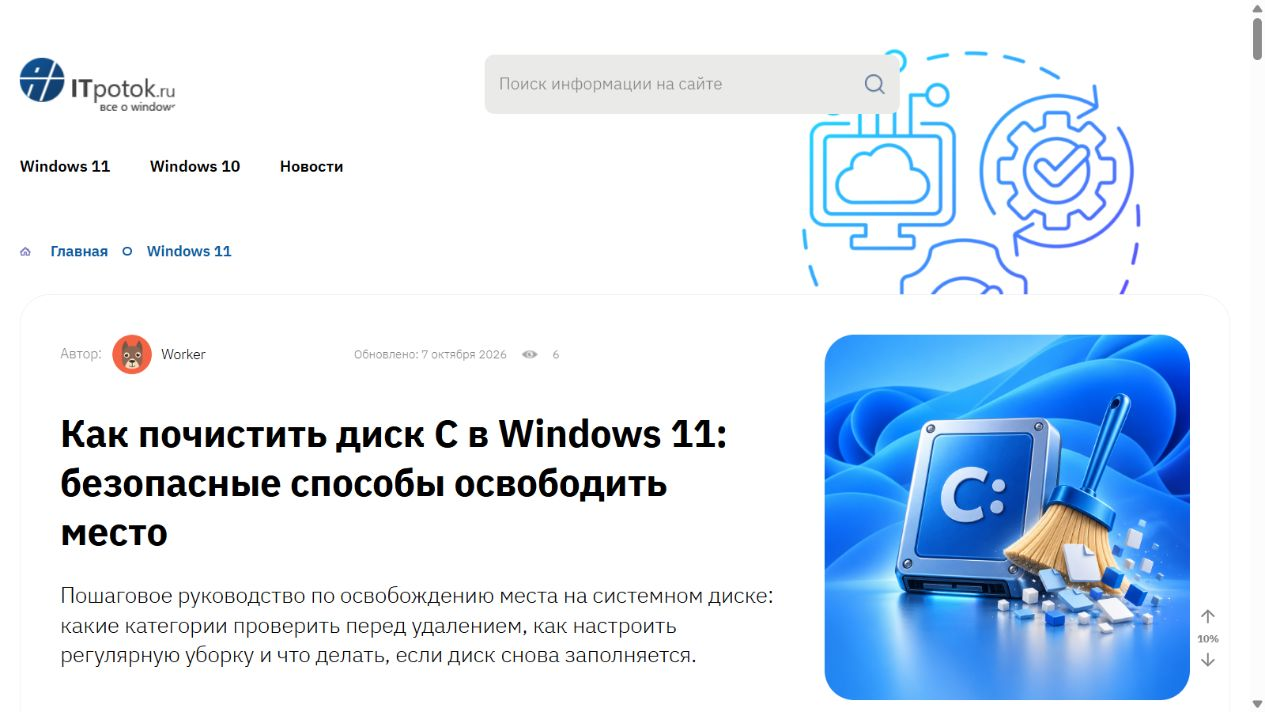
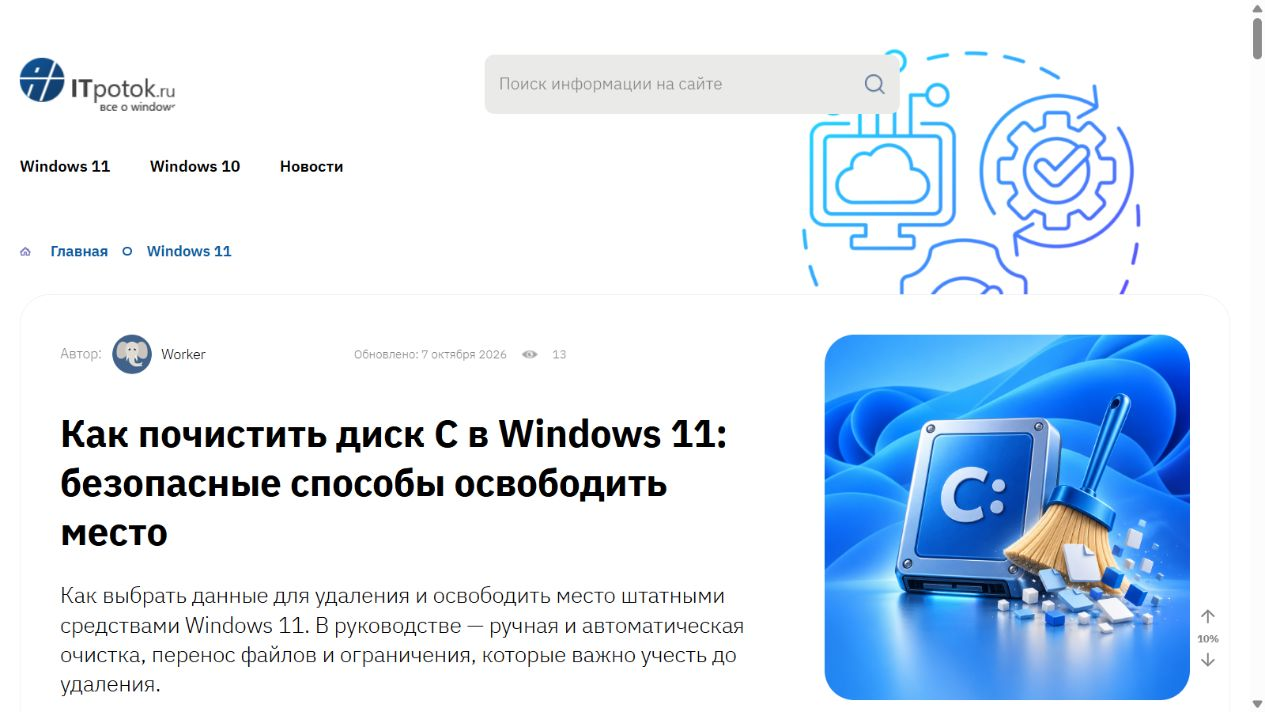
Rewrite disk cleanup guide with itpotok writing skill

Changed region(s): [[0.0308, 0.8034, 0.6166, 0.9888], [0.0925, 0.4635, 0.1233, 0.5253]]

diff --git a/clean-drive-c-windows-11/article.html b/clean-drive-c-windows-11/article.html
@@ -1,6 +1,6 @@
-<p>Чтобы почистить диск C в Windows 11, удалите ненужные временные файлы через «Параметры» → «Система» → «Память» или встроенную программу «Очистка диска». Если этого мало, проверьте крупные личные файлы и установленные приложения. Для регулярной уборки включите «Контроль памяти», предварительно настроив правила удаления. Ниже — порядок действий без сторонних чистильщиков и ручного удаления системных папок.</p>
+<p>Чтобы почистить диск C в Windows 11, начните с временных файлов: откройте «Параметры» → «Система» → «Память» или запустите встроенную «Очистку диска». Если свободного места всё ещё мало, удалите ненужные приложения либо перенесите крупные личные файлы на другой накопитель. Повторяющуюся уборку можно поручить «Контролю памяти», заранее выбрав, что ему разрешено удалять.</p>
 <h2>С чего начать, если на диске C мало места</h2>
-<p>Откройте «Проводник» → «Этот компьютер» и запишите, сколько свободно на C. Затем посмотрите категории в «Система» → «Память»: это поможет выбрать способ, который даст результат именно на вашем компьютере. В некоторых переводах Windows и справке Microsoft раздел называется «Хранилище».</p>
+<p>Откройте «Проводник» → «Этот компьютер» и запишите объём свободного места на C. После очистки сравните значения. Чтобы понять, с чего начать, откройте «Параметры» → «Система» → «Память» и посмотрите, какие категории занимают больше всего места. В некоторых переводах Windows и справке Microsoft этот раздел называется «Хранилище».</p>
 <div style="overflow-x:auto"><table><thead><tr><th>Что занимает место</th><th>Что выбрать</th><th>Что проверить заранее</th></tr></thead><tbody>
 <tr><td>Временные файлы и кэш</td><td>Очистка в Параметрах или cleanmgr</td><td>Описание каждой выбранной категории</td></tr>
 <tr><td>Остатки предыдущей установки</td><td>Удаление Windows.old штатным средством</td><td>Нужны ли откат и файлы старого профиля</td></tr>
@@ -9,78 +9,78 @@
 <tr><td>Локальные копии OneDrive</td><td>Команда «Освободить место»</td><td>Завершилась ли синхронизация; нужен ли доступ без интернета</td></tr>
 <tr><td>Мусор регулярно появляется снова</td><td>Контроль памяти и поиск причины роста</td><td>Правила корзины, загрузок и облачных файлов</td></tr>
 </tbody></table></div>
-<p>Не выбирайте всё подряд. Сначала сохраните важные файлы из «Загрузок» и корзины. Удаление через средства очистки не даёт обычной возможности восстановить их из корзины. Освободив достаточно места для своей задачи, остановитесь: удалять дополнительные данные ради максимальной цифры не требуется.</p>
+<p>Перед очисткой сохраните нужные файлы из «Загрузок» и корзины в другом месте. Средства очистки удаляют выбранные данные без обычной возможности вернуть их из корзины. Поэтому отмечайте только понятные вам категории и останавливайтесь, когда места достаточно для вашей задачи.</p>
 <h2>Удалить временные файлы через Параметры</h2>
 <ol>
 <li>Нажмите <strong>Win + I</strong>, откройте <strong>«Система» → «Память»</strong>.</li>
-<li>Выберите <strong>«Временные файлы»</strong> и дождитесь расчёта. Набор пунктов и объём зависят от компьютера.</li>
-<li>Прочитайте описания и отметьте только то, что больше не нужно. Кэш и эскизы обычно создаются заново по мере работы; диагностические данные могут понадобиться при разборе ошибки.</li>
-<li>Проверьте, не выбраны ли <strong>«Загрузки»</strong>, <strong>«Корзина»</strong> и <strong>«Предыдущие установки Windows»</strong>. Первые два пункта могут содержать ваши файлы; третий разбирается ниже.</li>
+<li>Выберите <strong>«Временные файлы»</strong> и дождитесь, пока Windows рассчитает их объём. На разных компьютерах список категорий будет отличаться.</li>
+<li>Прочитайте описания категорий и отметьте ненужные данные. Кэш и эскизы обычно создаются заново, а диагностические файлы стоит оставить, если вы разбираетесь с ошибкой.</li>
+<li>Проверьте флажки у <strong>«Загрузок»</strong> и <strong>«Корзины»</strong>: там могут находиться ваши документы. Если есть пункт <strong>«Предыдущие установки Windows»</strong>, не выбирайте его, пока не решите, нужен ли возврат к прежней версии. Удаление Windows.old разобрано ниже.</li>
 <li>Нажмите <strong>«Удалить файлы»</strong> и дождитесь завершения. Если Windows попросит перезагрузку, сначала сохраните открытые документы.</li>
 </ol>
-<p>Другой путь в этом же разделе — <strong>«Рекомендации по очистке»</strong>. Просмотрите предложенные временные файлы, крупные или неиспользуемые файлы и приложения. Сам факт попадания в рекомендации не означает, что файл вам не нужен. Отметьте подходящие элементы и используйте кнопку очистки соответствующей группы.</p>
+<p>В разделе «Память» также есть <strong>«Рекомендации по очистке»</strong>. Здесь Windows предлагает временные файлы, крупные или неиспользуемые файлы и приложения. Просмотрите предложения, отметьте то, что действительно не нужно, и нажмите кнопку очистки соответствующей группы. Рекомендация Windows сама по себе не означает, что файл можно удалить.</p>
 <p>Обновите сведения о C в «Этот компьютер» и сравните со значением до уборки. Показанная оценка удаления может отличаться от фактической прибавки: система продолжает записывать данные. Порядок штатной очистки описан в <a href="https://support.microsoft.com/ru-ru/windows/experience/storage-filemanagement/free-up-drive-space-in-windows" rel="nofollow">справке Microsoft об освобождении места</a>.</p>
 <h2>Запустить классическую «Очистку диска»</h2>
-<p>Этот способ удобен, если вы предпочитаете отдельное окно со списком категорий. Утилита <strong>cleanmgr</strong> применяется и в Windows 11; отдельную программу скачивать не нужно.</p>
+<p>Если удобнее работать в отдельном окне, используйте <strong>«Очистку диска»</strong>. Программа уже входит в Windows 11 и запускается командой <code>cleanmgr</code>.</p>
 <ol>
 <li>Откройте поиск на панели задач, введите <strong>«Очистка диска»</strong> и запустите найденное приложение. Другой вариант: <strong>Win + R</strong> → <code>cleanmgr</code> → Enter.</li>
 <li>Если появится выбор устройства, укажите <strong>C:</strong> и нажмите «ОК». Дождитесь анализа.</li>
-<li>Выделяйте категории, чтобы читать описание внизу окна. Установите флажки у ненужных данных.</li>
+<li>Нажимайте на названия категорий и читайте описание внизу окна. Отметьте флажками только ненужные данные.</li>
 <li>Для дополнительных категорий нажмите <strong>«Очистить системные файлы»</strong>. При запросе подтвердите права администратора, снова выберите C и дождитесь расчёта.</li>
-<li>Повторно проверьте флажки, нажмите «ОК» и подтвердите удаление. Не путайте эту кнопку с начальным «ОК» в окне выбора диска.</li>
+<li>После повторного анализа проверьте флажки: среди дополнительных категорий могут быть данные предыдущей установки Windows. Если готовы их удалить, нажмите «ОК» и подтвердите удаление файлов.</li>
 </ol>
-<figure><a href="https://itpotok.ru/wp-content/uploads/2026/10/disk-cleanup-ru-20261007.jpg"><img src="https://itpotok.ru/wp-content/uploads/2026/10/disk-cleanup-ru-20261007.jpg" alt="Русское окно Очистка диска C: список категорий, описание и кнопка Очистить системные файлы" width="397" height="459" style="max-width:100%;height:auto" loading="lazy"></a><figcaption>Собственный снимок окна Microsoft Windows 11: категории и кнопка «Очистить системные файлы». 3,51 ГБ — оценка на конкретном ПК, а не обещание результата. Удаление не запускалось. Used with permission from Microsoft. Нажмите на изображение для увеличения.</figcaption></figure>
+<figure><a href="https://itpotok.ru/wp-content/uploads/2026/10/disk-cleanup-ru-20261007.jpg"><img src="https://itpotok.ru/wp-content/uploads/2026/10/disk-cleanup-ru-20261007.jpg" alt="Русское окно Очистка диска C: список категорий, описание и кнопка Очистить системные файлы" width="397" height="459" style="max-width:100%;height:auto" loading="lazy"></a><figcaption>Окно «Очистка диска» в Windows 11: описание выбранной категории и кнопка «Очистить системные файлы». Показанные 3,51 ГБ — оценка перед удалением на одном компьютере. Собственный снимок; Used with permission from Microsoft. Нажмите для увеличения.</figcaption></figure>
 <p><strong>«Загруженные файлы программ» — не папка «Загрузки».</strong> В показанном окне это отдельная категория старых интернет-компонентов. Всегда ориентируйтесь на её описание. Поддержку утилиты и её параметры подтверждает <a href="https://learn.microsoft.com/en-us/windows-server/administration/windows-commands/cleanmgr" rel="nofollow">документация Microsoft Learn</a>.</p>
-<p>После завершения снова проверьте свободное место на C. Если передумали до подтверждения удаления, нажмите «Отмена». После очистки общей кнопки возврата нет.</p>
+<p>До подтверждения удаления можно выйти кнопкой «Отмена». После очистки вернуть удалённые данные общей кнопкой отмены нельзя. Дождитесь завершения и проверьте свободное место на C.</p>
 <h2>Настроить автоматическую уборку — «Контроль памяти»</h2>
-<p>Контроль памяти работает на системном диске, обычно C. При стандартной настройке он помогает убирать временные файлы при нехватке места; для корзины действует срок хранения. «Загрузки» и облачные файлы не затрагиваются, пока вы не зададите соответствующие правила.</p>
+<p>«Контроль памяти» нужен, если временные файлы приходится убирать регулярно. Он работает на системном диске, обычно C. При стандартной настройке очистка временных файлов запускается при нехватке места, а содержимое корзины удаляется по сроку хранения. Для «Загрузок» и облачных файлов действуют отдельные правила: они не затрагиваются, пока вы их не настроите.</p>
 <ol>
 <li>Откройте <strong>«Параметры» → «Система» → «Память» → «Контроль памяти»</strong>.</li>
 <li>Включите функцию и выберите частоту запуска: при нехватке места или по расписанию.</li>
-<li>Установите срок удаления файлов из корзины. Если рассчитываете восстанавливать недавно удалённые документы, не задавайте слишком короткий срок.</li>
+<li>Выберите срок хранения файлов в корзине. Оставьте достаточно времени, чтобы успеть восстановить документ, удалённый по ошибке.</li>
 <li>Для <strong>«Загрузок»</strong> оставьте <strong>«Никогда»</strong>, если не готовы к автоматическому удалению. Это папка личных файлов, а не только временный кэш.</li>
 <li>Если присутствуют настройки облачного содержимого, прочитайте их отдельно: перевод файла в состояние «только в сети» влияет на доступ без интернета.</li>
 <li>Для немедленной уборки используйте <strong>«Запустить Контроль памяти сейчас»</strong> после проверки правил.</li>
 </ol>
-<p>Убедитесь, что выбранные правила сохранились, а после запуска проверьте свободное место. Для отмены будущей автоматической уборки выключите функцию или измените сроки; уже удалённые файлы это не вернёт. Подробности — в <a href="https://support.microsoft.com/ru-ru/windows/experience/storage-filemanagement/manage-drive-space-with-storage-sense" rel="nofollow">официальном описании контроля памяти</a>.</p>
+<p>Убедитесь, что выбранные правила сохранились. После ручного запуска сравните свободное место на C. Остановить будущую автоматическую уборку можно, выключив функцию или изменив сроки; уже удалённые файлы при этом не восстановятся. Условия работы описаны в <a href="https://support.microsoft.com/ru-ru/windows/experience/storage-filemanagement/manage-drive-space-with-storage-sense" rel="nofollow">справке Microsoft о контроле памяти</a>.</p>
 <h2>Удалить Windows.old после обновления</h2>
-<p>Папка <code>C:\Windows.old</code> может содержать предыдущую установку Windows. Не удаляйте её, если собираетесь вернуться к прежней версии или ещё не проверили нужные файлы старого профиля.</p>
+<p>После обновления в <code>C:\Windows.old</code> может остаться предыдущая установка Windows. Её удаление освобождает место, но лишает возможности штатного возврата к прежней версии. Если откат ещё нужен или вы не проверили файлы старого профиля, оставьте папку.</p>
 <ol>
-<li>Убедитесь, что новая система, приложения и устройства работают, а нужные документы сохранены отдельно.</li>
+<li>Проверьте работу новой системы, приложений и устройств. Сохраните нужные документы из старого профиля в другом месте.</li>
 <li>Откройте «Система» → «Память» → «Временные файлы» либо «Рекомендации по очистке».</li>
 <li>Выберите <strong>«Предыдущие установки Windows»</strong>, если пункт есть, и запустите штатное удаление. Для него нужны права администратора.</li>
 </ol>
-<p>Проверка — обновить свободное место на C после завершения. <strong>Отменить удаление предыдущей установки нельзя:</strong> возможность штатного возврата к ней будет потеряна. По справке Microsoft предыдущая версия обычно удаляется автоматически через десять дней после обновления. Отсутствие пункта само по себе не говорит об ошибке: подходящих данных может не быть.</p>
-<p>Источники: <a href="https://support.microsoft.com/ru-ru/windows/deployment/install-upgrade/delete-your-previous-version-of-windows" rel="nofollow">удаление предыдущей версии</a> и <a href="https://support.microsoft.com/ru-ru/servicing/os/windows/2022/02/kb5012334-delete-the-windows-old-folder-using-storage-sense-in-the-settings-app" rel="nofollow">инструкция Microsoft для Windows.old</a>.</p>
+<p>После завершения обновите сведения о свободном месте на C. <strong>Отменить удаление предыдущей установки нельзя.</strong> Если соответствующего пункта нет, подходящие данные могли уже исчезнуть: по справке Microsoft предыдущая версия обычно удаляется автоматически через десять дней после обновления.</p>
+<p>Подробнее: <a href="https://support.microsoft.com/ru-ru/windows/deployment/install-upgrade/delete-your-previous-version-of-windows" rel="nofollow">удаление предыдущей версии</a> и <a href="https://support.microsoft.com/ru-ru/servicing/os/windows/2022/02/kb5012334-delete-the-windows-old-folder-using-storage-sense-in-the-settings-app" rel="nofollow">инструкция Microsoft для Windows.old</a>.</p>
 <h2>Освободить больше места: приложения, крупные файлы и OneDrive</h2>
 <h3>Удалить ненужные программы и игры</h3>
-<p>Откройте <strong>«Параметры» → «Приложения» → «Установленные приложения»</strong>. Используйте сортировку по размеру, если она доступна, и фильтр диска C. Размер в списке не всегда отражает все данные программы, поэтому проверяйте и её собственные настройки хранения.</p>
-<p>Сохраните проекты, настройки, игровые сохранения и сведения о лицензии. У нужного приложения откройте меню «…» → <strong>«Удалить»</strong> и пройдите мастер. Если оно не удаляется здесь, проверьте «Панель управления» → «Программы и компоненты». Не стирайте его папку из Program Files вручную.</p>
+<p>Откройте <strong>«Параметры» → «Приложения» → «Установленные приложения»</strong>. Выберите фильтр диска C и сортировку по размеру, если она доступна. Так проще найти крупные игры и программы. Указанный размер может не учитывать все данные приложения; расположение и объём этих данных проверьте в его настройках.</p>
+<p>Перед удалением сохраните проекты, настройки, игровые сохранения и сведения о лицензии. Затем откройте меню «…» у ненужного приложения, выберите <strong>«Удалить»</strong> и следуйте указаниям мастера. Если удалить программу здесь не получается, проверьте «Панель управления» → «Программы и компоненты». Не стирайте её папку из <code>Program Files</code> вручную.</p>
 <p>После удаления проверьте место на C. Вернуть приложение можно установкой из прежнего доверенного источника, но пользовательские данные восстановятся только при наличии копии или синхронизации. См. <a href="https://support.microsoft.com/ru-ru/windows/удаление-или-удаление-приложений-и-программ-в-windows-4b55f974-2cc6-2d2b-d092-5905080eaf98" rel="nofollow">справку Microsoft об удалении приложений</a>.</p>
 <h3>Перенести личные файлы на другой диск</h3>
-<p>В первую очередь просмотрите «Загрузки», «Видео», «Документы» и рабочий стол: там могут оставаться ISO, архивы и большие записи экрана. В режиме «Таблица» сортируйте файлы по столбцу «Размер». Папки этим способом не обязательно сортируются по суммарному объёму — проверяйте их содержимое отдельно.</p>
-<p>Для важных данных сначала <strong>скопируйте</strong> выбранные файлы на другой диск или внешний накопитель, откройте несколько копий и убедитесь, что они читаются. Только затем удаляйте оригиналы с C. Пока они остаются в корзине на этом диске, место полностью не освободится. Проверьте корзину перед её очисткой.</p>
-<p>Перенос в другую папку на C не освобождает место на C. Для возврата скопируйте данные обратно, если хватает пространства. Переносить установленную программу как обычную папку нельзя: используйте функцию переноса её установщика или переустановку.</p>
+<p>Просмотрите «Загрузки», «Видео», «Документы» и рабочий стол: место могут занимать установочные образы ISO, архивы и записи экрана. В Проводнике включите режим «Таблица» и нажмите на столбец «Размер», чтобы найти крупные файлы. Для папок такая сортировка не обязательно учитывает объём содержимого — откройте их и проверьте файлы отдельно.</p>
+<p>Важные файлы сначала <strong>скопируйте</strong> на другой диск или внешний накопитель. Откройте несколько копий и убедитесь, что они читаются. После проверки удалите оригиналы с C. Если они попали в корзину на этом диске, для полного освобождения места потребуется очистить и её — предварительно проверьте содержимое.</p>
+<p>После удаления оригиналов проверьте свободное место на C. Перемещение в другую папку того же диска его не увеличит. При необходимости файлы можно скопировать обратно, если хватает места. Установленные программы таким способом не переносите: для них нужна функция переноса в установщике или переустановка.</p>
 <h3>Оставить файлы OneDrive в облаке</h3>
 <p>Если папка OneDrive расположена на C и файлы уже синхронизированы, нажмите на ненужный локально файл или папку правой кнопкой → <strong>«Освободить место»</strong>. При включённой функции «Файлы по запросу» облачный оригинал остаётся, а локальная копия освобождает диск.</p>
-<p>Проверьте значок облака и наличие файла в OneDrive. Для открытия понадобится интернет, и файл снова скачается. Для отмены выберите <strong>«Всегда хранить на этом устройстве»</strong> и дождитесь загрузки. Обычное «Удалить» в синхронизируемой папке — другая операция: она затрагивает и облачный файл. См. <a href="https://support.microsoft.com/ru-ru/onedrive/save-disk-space-with-onedrive-files-on-demand-for-windows" rel="nofollow">файлы OneDrive по запросу</a> и <a href="https://support.microsoft.com/ru-RU/onedrive/delete-files-or-folders-in-onedrive" rel="nofollow">правила удаления в OneDrive</a>.</p>
+<p>После освобождения места проверьте значок облака рядом с файлом и его наличие в OneDrive. Для открытия потребуется интернет: файл снова загрузится на компьютер. Если нужен постоянный доступ без сети, выберите <strong>«Всегда хранить на этом устройстве»</strong> и дождитесь загрузки. <strong>Не заменяйте «Освободить место» обычным «Удалить»:</strong> удаление в синхронизируемой папке затрагивает и облачный файл. Подробнее об этих действиях: <a href="https://support.microsoft.com/ru-ru/onedrive/save-disk-space-with-onedrive-files-on-demand-for-windows" rel="nofollow">файлы OneDrive по запросу</a> и <a href="https://support.microsoft.com/ru-RU/onedrive/delete-files-or-folders-in-onedrive" rel="nofollow">правила удаления в OneDrive</a>.</p>
 <h2>Нужно ли удалять hiberfil.sys, pagefile.sys и WinSxS</h2>
 <p>Это системные данные. <strong>Не удаляйте вручную Windows, WinSxS, Installer, Program Files и весь AppData.</strong> В них находятся компоненты системы, установленные приложения и пользовательские настройки.</p>
-<p>Для хранилища компонентов Microsoft предусматривает штатную очистку, включая DISM. Удаление WinSxS вручную может нарушить загрузку и обновления. Агрессивную команду с <code>/ResetBase</code> не стоит использовать как обычную уборку: она ограничивает удаление установленных обновлений. Для базового руководства достаточно средств выше. Источник — <a href="https://learn.microsoft.com/windows-hardware/manufacture/desktop/clean-up-the-winsxs-folder" rel="nofollow">очистка WinSxS в Microsoft Learn</a>.</p>
-<p>Файл <code>hiberfil.sys</code> связан с гибернацией; он используется также механизмами быстрого запуска. Если гибернация вам нужна, оставьте его. Если готовы отказаться от неё, откройте поиск → «Терминал» → «Запуск от имени администратора» и выполните:</p>
+<p>Папка <code>WinSxS</code> содержит хранилище компонентов Windows. Её ручное удаление может нарушить загрузку и обновления. Microsoft предусматривает штатную очистку, в том числе через DISM, но команду с <code>/ResetBase</code> не стоит применять для обычной уборки: она ограничивает удаление установленных обновлений. Начните со средств очистки, описанных выше. Дополнительные возможности и ограничения приведены в <a href="https://learn.microsoft.com/windows-hardware/manufacture/desktop/clean-up-the-winsxs-folder" rel="nofollow">справке Microsoft Learn об очистке WinSxS</a>.</p>
+<p>Файл <code>hiberfil.sys</code> связан с гибернацией; он используется также механизмами быстрого запуска. Отключение гибернации затронет также быстрый запуск и гибридный сон. Если эти возможности вам нужны, оставьте файл. Если готовы отказаться от них, откройте поиск → «Терминал» → «Запуск от имени администратора» и выполните:</p>
 <pre><code>powercfg /hibernate off</code></pre>
-<p>После успешного выполнения гибернация станет недоступна, её файл освободит место; быстрый запуск и гибридный сон также зависят от этого механизма. Это отдельное изменение режима питания, не удаление мусора. Для возврата выполните:</p>
+<p>После успешного выполнения команды гибернация станет недоступна, а её файл освободит место. Чтобы снова включить гибернацию, выполните в терминале с правами администратора:</p>
 <pre><code>powercfg /hibernate on</code></pre>
-<p>Затем проверьте настройки электропитания: нужные режимы могут потребовать отдельного включения. Возвращённый файл снова займёт место. Размер зависит от конфигурации — универсальную прибавку в гигабайтах обещать нельзя. Источники: <a href="https://learn.microsoft.com/en-us/troubleshoot/windows-client/setup-upgrade-and-drivers/disable-and-re-enable-hibernation" rel="nofollow">отключение и включение гибернации</a>, <a href="https://learn.microsoft.com/en-us/windows/win32/power/system-power-states" rel="nofollow">режимы питания</a>.</p>
+<p>После обратного включения проверьте настройки электропитания: нужные режимы могут потребовать отдельной настройки. Файл гибернации снова займёт место; его размер зависит от конфигурации компьютера. Справки Microsoft: <a href="https://learn.microsoft.com/en-us/troubleshoot/windows-client/setup-upgrade-and-drivers/disable-and-re-enable-hibernation" rel="nofollow">отключение и включение гибернации</a>, <a href="https://learn.microsoft.com/en-us/windows/win32/power/system-power-states" rel="nofollow">режимы питания</a>.</p>
 <p><code>pagefile.sys</code> — файл подкачки. Его отключение ради свободного места может мешать приложениям при нехватке памяти. Не меняйте его наугад: для этой задачи оставьте системное управление. Назначение файла объясняет <a href="https://learn.microsoft.com/da-dk/troubleshoot/windows-client/performance/introduction-to-the-page-file" rel="nofollow">Microsoft Learn</a>.</p>
 <h2>Что делать, если место не освободилось или снова исчезает</h2>
 <ul>
 <li><strong>Удалилось меньше, чем ожидалось.</strong> Проверьте именно C и обновите сведения в Проводнике. Не складывайте оценки разных средств очистки: они могут находить одни и те же данные.</li>
-<li><strong>Временные файлы снова появляются.</strong> Небольшой кэш создаётся при обычной работе. Посмотрите, какая категория растёт, и проверьте загрузки браузера, обновления, записи экрана и данные приложений.</li>
+<li><strong>Временные файлы снова появляются.</strong> Кэш создаётся заново при обычной работе. Если место убывает быстро, посмотрите в разделе «Память», какая категория растёт. Проверьте загрузки браузера, обновления, записи экрана и данные приложений.</li>
 <li><strong>Список долго рассчитывается или очистка не завершается.</strong> Дождитесь окончания активных обновлений, затем перезагрузите ПК и повторите анализ. Не прерывайте обслуживание удалением системных файлов.</li>
 <li><strong>Папка Temp быстро заполняется файлами .APPX.</strong> Microsoft описывает такой случай отдельно: нужно разбирать работу Microsoft Store и обновлений, а не бесконечно повторять уборку. Используйте раздел об этой ошибке в <a href="https://support.microsoft.com/ru-ru/windows/experience/storage-filemanagement/free-up-drive-space-in-windows" rel="nofollow">официальном руководстве</a>.</li>
 <li><strong>Почти всё занимают нужные программы и документы.</strong> Очистка кэша не решит нехватку ёмкости. Перенесите данные на другой накопитель или рассмотрите увеличение хранилища.</li>
 </ul>
-<p>Ориентируйтесь на свободное место в Проводнике и требования конкретной задачи, например установки игры или обновления. Универсального объёма, который гарантированно освободится на любом ПК, нет. Форматирование C и переустановка Windows для обычной очистки не нужны. Если обращаетесь за помощью, приложите точный текст ошибки или <a href="https://itpotok.ru/take-screenshot-windows-11/">скриншот окна</a> без личных данных.</p>
+<p>Сравнивайте свободное место в Проводнике с требованиями своей задачи — например, установки игры или обновления. Если удалять больше нечего, переходите к переносу нужных данных или увеличению хранилища. Форматирование C и переустановка Windows для обычной очистки не нужны. Если обращаетесь за помощью, приложите точный текст ошибки или <a href="https://itpotok.ru/take-screenshot-windows-11/">скриншот окна</a> без личных данных.</p>
 <h2>Частые вопросы</h2>
 [webnavoz_faq id="11994"]

diff --git a/clean-drive-c-windows-11/changes.md b/clean-drive-c-windows-11/changes.md
@@ -1,3 +1,5 @@
 # История существенных изменений
 
 07.10.2026 — создана статья по запросам очистки C в Windows 11. Исследован конкурент и опубликованные материалы itpotok.ru. Подготовлены самостоятельный HTML, отдельный отрывок, фактчекинг по Microsoft, таблица выбора, ограничения/проверка/возврат, шесть штатных FAQ. Созданы новая AI-обложка и собственный русский кадр cleanmgr. Черновик 11994 проверен перед публикацией; пакет загружен в отдельную ветку GitHub. Опубликовано в той же записи, FAQ привязан к ней. Сохранённый текст и отрывок сверены с исходником; публичный URL проверен без авторизации.
+
+07.10.2026 — переписан текст по новому itpotok-writing: прочитаны скилл, style-guide.md и examples.md. Уточнены действия и переходы, переписаны вступление и отрывок, предупреждения о гибернации перенесены перед командой. Сохранены способы, команды, внешние ссылки, обложка, русский снимок и FAQ записи 11994. Исходная опубликованная версия совпала с GitHub-базой 20f370b. Обновление проверено в отдельном черновике 11999, затем синхронизировано с публикацией. Временный черновик перемещён в корзину: данных FAQ в нём нет.

diff --git a/clean-drive-c-windows-11/verification.md b/clean-drive-c-windows-11/verification.md
@@ -19,3 +19,6 @@ WordPress 11994, draft. Обложка 11995; собственный кадр 11
 Публичный FAQ: шестой вопрос раскрыт, первый закрыт; все шесть ответов присутствуют и сверены. public-faq-proof.png — доказательство раскрытия без авторизации. Дополнительных практических испытаний очистки не проводилось.
 
 Публичная иллюстрация: после перехода к кадру загрузился оригинал 397×459, loaded=true; ссылка открыла Fancybox с тем же оригиналом, lightbox закрыт. Статья оставлена открытой без авторизации.
+
+## После переписывания по itpotok-writing — 07.10.2026
+Проверены предпросмотр 11999 и опубликованная страница 11994: заголовок, новый отрывок, обложка, содержание, вступление и первая таблица. REST подтвердил точное совпадение тела и отрывка с текущими файлами, статус publish и обложку 11995. Без авторизации видны новый текст и шесть FAQ; последний ответ раскрыт, видимого шорткода нет. При ширине 390 px ширина документа 375 px: общего горизонтального переполнения нет. Практические операции Windows повторно не выполнялись. Скриншот public-top-proof.png обновлён как доказательство просмотра сайта.

diff --git a/clean-drive-c-windows-11/README.md b/clean-drive-c-windows-11/README.md
@@ -15,3 +15,6 @@
 После публикации: статус publish, выбранный URL, content.raw/excerpt.raw совпадают с актуальными файлами. HTTP GET без авторизации вернул 200: новый текст, обложка, собственный кадр и штатный FAQ присутствуют, видимого шорткода нет. Визуальная проверка публичной страницы описана в verification.md.
 
 Практическое удаление файлов, программ, Windows.old, отключение гибернации и OneDrive не выполнялись. Удаление нельзя описывать как испытанное. Дополнительные кадры Параметров не сохранены из-за личного блока аккаунта; текст этих способов сверяется с документацией Microsoft. Детали — factcheck.md и illustrations.md.
+
+## Последнее обновление — 07.10.2026
+Статья переписана по новому скиллу itpotok-writing и обновлена в опубликованной записи 11994. Отрывок синхронизирован. Для проверки использован временный черновик 11999; после проверки он перемещён в корзину. FAQ по-прежнему берёт данные из самой публикации 11994, зависимого черновика нет. Базовая версия сохранена в истории Git (20f370b).

diff --git a/clean-drive-c-windows-11/editorial.md b/clean-drive-c-windows-11/editorial.md
@@ -7,3 +7,6 @@
 Поиск опубликованных записей через публичный REST: «диск», «очист». Найдены материалы Windows XP/7/8/10 и общая установка Windows 11, отдельного руководства об очистке C в Windows 11 нет. Выбран новый смысловой URL clean-drive-c-windows-11. Авточерновик 11994 создан штатным редактором; используется как итоговая запись.
 
 Обложка отдельная, без поддельного интерфейса. Один актуальный исходник article.html; excerpt.txt описывает охват, вводный абзац даёт прямой ответ. FAQ — штатные метаданные записи 11994, без второго слоя разметки.
+
+## Повторная редактура — 07.10.2026
+Применён itpotok-writing из ветки editorial/writing-skill с обоими обязательными справочниками. Выполнены структурная и языковая вычитки всего исходника. Убраны служебные обороты, уточнены объекты действий, сохранены существенные повторные предупреждения перед удалением. Общие правила скилла не менялись.

diff --git a/clean-drive-c-windows-11/factcheck.md b/clean-drive-c-windows-11/factcheck.md
@@ -25,3 +25,6 @@
 Позже открыты Параметры через «Этот компьютер → … → Свойства», просмотрены «Система → Память» с C и категорией временных файлов, «Установленные приложения» с фильтром диска и сортировкой размера. Эти экраны не сохранены из-за личного блока аккаунта. Настройки и данные не менялись.
 
 Названия «Память»/«Хранилище» и расположение отдельных пунктов зависят от сборки и перевода. Проверка публикации и границы визуального просмотра хранятся в verification.md.
+
+## Редактура по новому скиллу — 07.10.2026
+Изменены язык, связность и порядок предупреждений. Новые способы и технические обещания не добавлялись; сохранены условия и ограничения из сверки выше. Команды off/on, сроки, пути и ссылки сверены с прежним исходником. Повторные практические испытания очистки не проводились.
